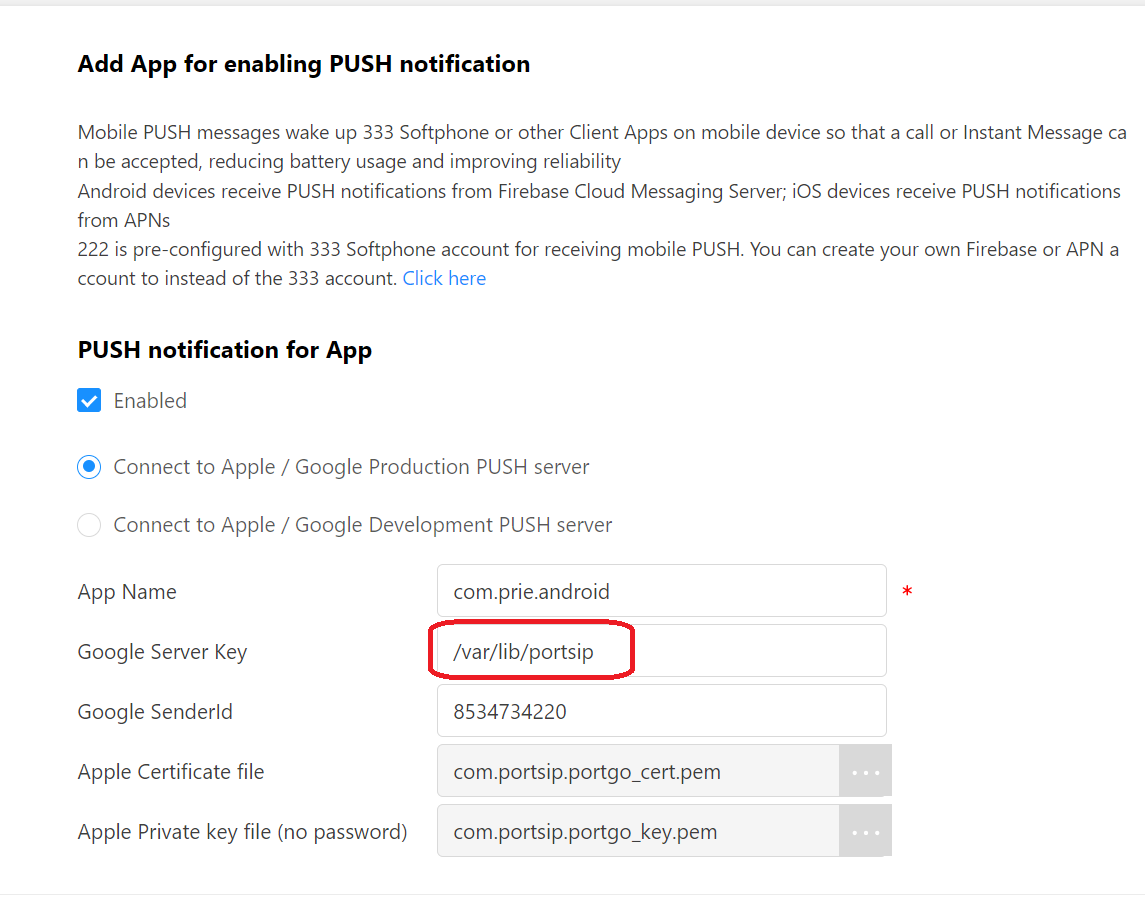
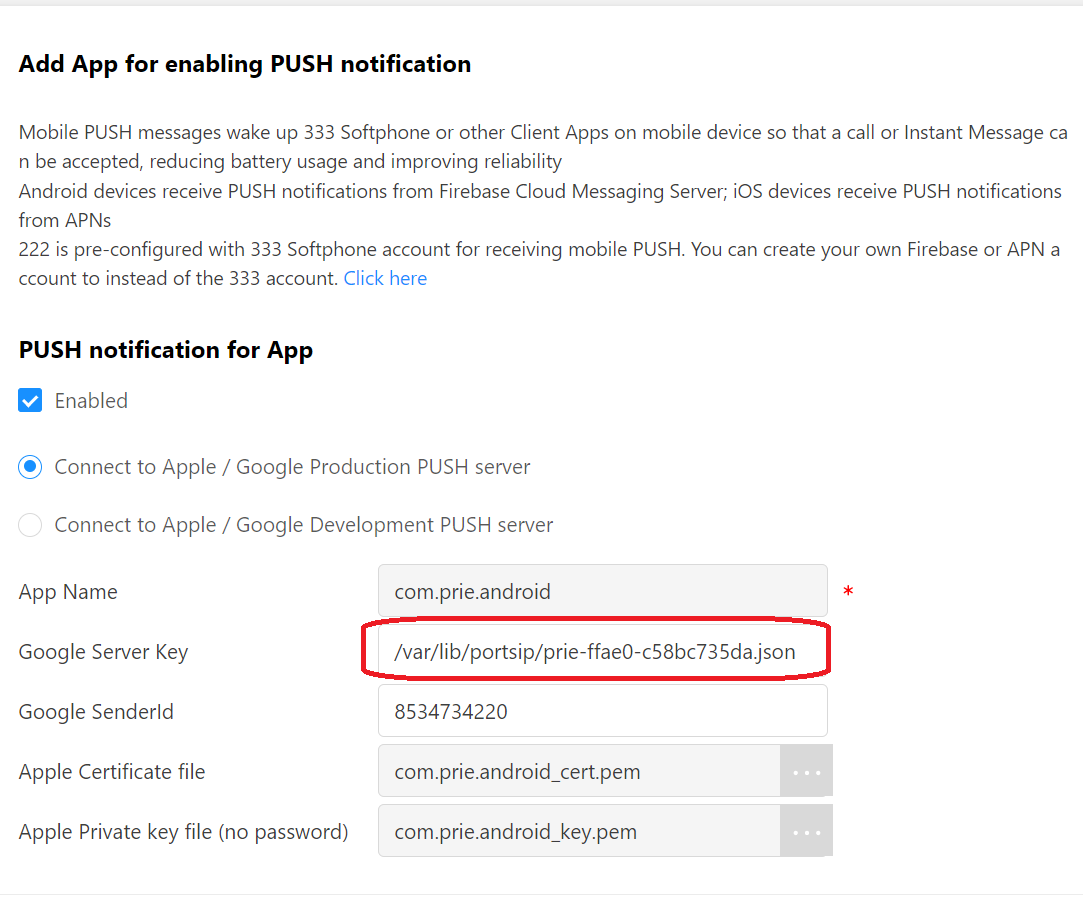
GITBOOK-1771: No subject

diff --git a/pbx_v12/tutorials/upgrade-portsip-pbx-v12.x-to-the-v12.8.7.md b/pbx_v12/tutorials/upgrade-portsip-pbx-v12.x-to-the-v12.8.7.md
@@ -61,15 +61,14 @@ For CentOS/Ubuntu/Debian, use the below commands to perform the upgrade.
 
 ## Change push settings for Android
 
-## Change push settings for Android
-
 If you are using the PortSIP softphone app, you do not need to do anything, the upgraded PBX v12.8.7 will work with the PortSIP softphone app seamlessly.
 
 ### Get a new push profile JSON file
 
 * If you used the Android app that the PortSIP rebranded, please get in touch with us to obtain the new push setting JSON file.
-* If you used the Android app that you developed on your own, please follow the below steps to get the new push setting JSON file.
-  * Read the guide [Android Push Notifications](https://docs.apppresser.com/article/301-android-push-notifications) and follow steps 1 - step 3 to download the push setting JSON file
+* If you used the Android app that you developed on your own, please follow the below steps to get the new push setting JSON file. Read the guide [Android Push Notifications](https://docs.apppresser.com/article/301-android-push-notifications) and follow **steps 1 - step 3** (no need to follow other steps) to download the push setting JSON file
+
+Assume the push setting JSON file is:&#x20;
 
 ### Upload push setting JSON file
 
@@ -82,7 +81,7 @@ Now we need to upload the push setting JSON file to the PortSIP PBX server.
 
 Sign in to the PortSIP PBX v12.8.7 Web portal, select the menu **Advanced > Mobile Push**, and double-click the app to change the settings.
 
-Enter the folder path which you placed the push setting JSON file to the Google Server Key field.
+Enter the folder path in which you placed the push setting JSON file to the Google Server Key field.
 
 <figure><img src="../../.gitbook/assets/android_push_path.png" alt=""><figcaption></figcaption></figure>
 
